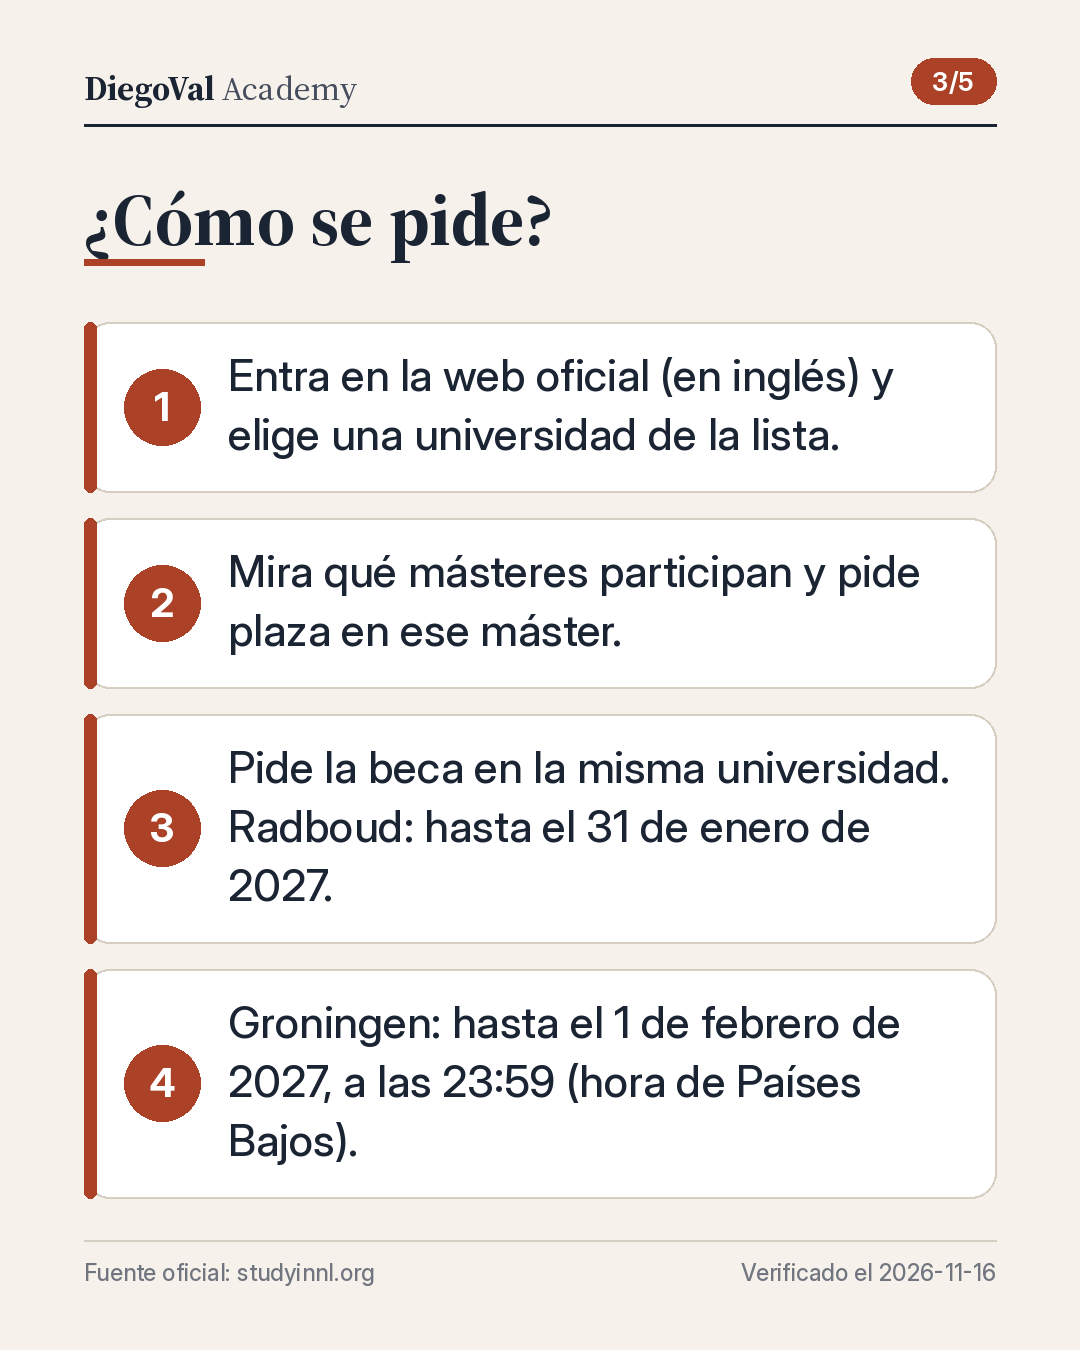
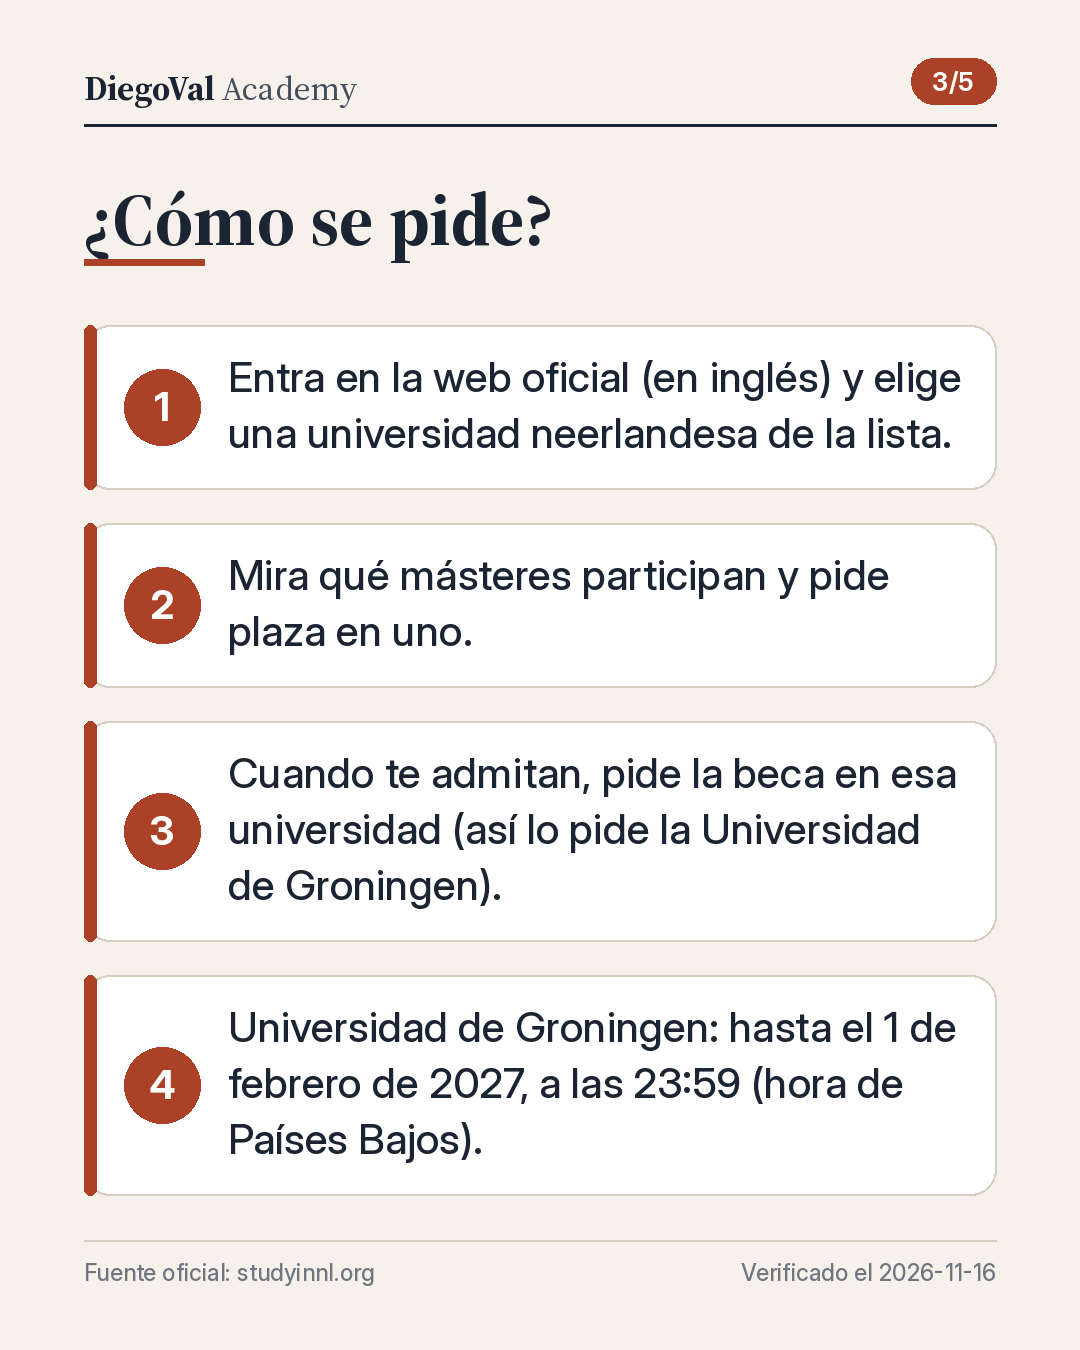
2026-11-16_lunes_beca-paises-bajos-nl: textos más sencillos tras 1.ª verificación
Claude-Session: https://claude.ai/code/session_01HRCw39VRhfYDAVqBzkn5QZ

diff --git a/posts/2026-11-16_lunes_beca-paises-bajos-nl/caption.md b/posts/2026-11-16_lunes_beca-paises-bajos-nl/caption.md
@@ -1,21 +1,21 @@
-¿Quieres un máster en Países Bajos y buscas ayuda con el coste? 🇳🇱 Hay una beca llamada NL Scholarship, abierta para el curso 2027-2028.
+¿Quieres un máster en Países Bajos con ayuda? 🇳🇱 Hay una beca llamada NL (Países Bajos) Scholarship, abierta para el curso 2027-2028.
 
 En corto:
-• Qué da: 5 000 euros, una sola vez, en el primer año. No paga toda la matrícula ni la vida diaria.
-• Quién: quien no tiene pasaporte de la Unión Europea (ni de Noruega, Islandia o Liechtenstein), hace un máster de tiempo completo y nunca ha estudiado en Países Bajos.
-• Plazos: cada universidad pone el suyo. Radboud: 31 de enero de 2027. Groningen: 1 de febrero de 2027, hasta las 23:59 (hora de Países Bajos).
+• Qué da: 5 000 euros, una sola vez. No paga toda la matrícula (lo que pagas por estudiar) ni la vida diaria.
+• Quién: quien no tiene pasaporte de la Unión Europea, Noruega, Islandia ni Liechtenstein, estudia a tiempo completo y no tiene título neerlandés ni estudios previos allí.
+• Plazo: cada universidad pone el suyo. Ejemplo: la Universidad de Groningen, hasta el 1 de febrero de 2027, a las 23:59 (hora de Países Bajos).
 
-Por qué es conocida: está en la web oficial para estudiar en Países Bajos, con 33 instituciones participantes en 2027-2028.
+Por qué es conocida: está en la web oficial de estudios en Países Bajos (33 instituciones).
 
-Lo que pocos explican: no hay una solicitud única. La pides en la universidad que elijas, y no todos los másteres participan: mira la página de cada uno.
+Lo que pocos explican: no hay una solicitud única. La pides en la universidad elegida, y algunos másteres no participan.
 
 Cómo empezar:
-1. Abre la web oficial y elige tu universidad en la lista.
-2. Busca un máster que participe y apunta su plazo.
-3. Prepara tu carta de motivación y tus notas de la carrera.
+1. Abre la web oficial y elige una universidad de la lista.
+2. Pide plaza en un máster que participe. En Groningen, la beca se pide cuando ya te han admitido.
+3. Apunta el plazo y prepara tu carta de motivación.
 
 Oficial: https://www.studyinnl.org/finances/nl-scholarship
-Groningen: https://www.rug.nl/education/master/international-students/financial-matters/holland-scholarship/
+Universidad de Groningen: https://www.rug.nl/education/master/international-students/financial-matters/holland-scholarship/
 
 Verificado el: 2026-11-16
 

diff --git a/posts/2026-11-16_lunes_beca-paises-bajos-nl/validation.md b/posts/2026-11-16_lunes_beca-paises-bajos-nl/validation.md
@@ -1,0 +1,30 @@
+# Validación — 2026-11-16_lunes_beca-paises-bajos-nl
+
+Ejecutado: 2026-11-16T07:10:57+01:00
+Decisión: **BLOQUEADA: no publicar**
+
+| Estado | Comprobación | Detalle |
+|---|---|---|
+| PASS | Archivos obligatorios | imagen: post.json, post.png, caption.md, sources.md, metadata.json |
+| PASS | Metadatos | campos obligatorios presentes |
+| PASS | Imagen | 1080x1350 PNG, 1 archivo (+5 diapositivas de carrusel, ignoradas) |
+| PASS | Canal Buffer | DiegoVal Academy (6ae0bdf22f1f5ed648eb92f9) |
+| PASS | Verificación del día | 2026-11-16 |
+| PASS | Longitud del texto | 1285/1300 caracteres |
+| PASS | Fecha visible en el texto | Verificado el: 2026-11-16 |
+| PASS | Marcadores pendientes | ninguno |
+| PASS | Enlaces documentados en sources.md | 2 enlaces |
+| PASS | Enlace principal en el texto | https://www.studyinnl.org/finances/nl-scholarship |
+| PASS | Lo que pocos explican | presente en imagen y texto |
+| PASS | Sin URLs en la imagen | sólo dominio de la fuente |
+| PASS | Lenguaje sencillo: siglas (texto) | todas explicadas o ninguna |
+| PASS | Lenguaje sencillo: palabras difíciles (texto) | sin burocracia ni calcos detectados |
+| PASS | Lenguaje sencillo: siglas (imagen) | todas explicadas o ninguna |
+| PASS | Lenguaje sencillo: palabras difíciles (imagen) | sin burocracia ni calcos detectados |
+| PASS | Lenguaje sencillo: frases largas | todas ≤ 32 palabras |
+| FAIL | Lenguaje sencillo: revisión del verificador | falta metadata.plain_language_check con la pregunta exacta, answer 'sí', reviewer y checked_text_sha256 (python3 scripts/validate_post.py <carpeta> --plain-hash) |
+| PASS | Evidencia de popularidad | 1 señales documentadas |
+| PASS | Plazo | 2027-02-01T23:59:00+01:00 (quedan 77 días) |
+| PASS | Duplicados | sin repeticiones en 26 filas de todas las plataformas (URL canónica, topic_key y vídeo; mismo día en otra red permitido) |
+| PASS | Enlace accesible | 200 https://www.rug.nl/education/master/international-students/financial-matters/holland-scholarship/ |
+| PASS | Enlace accesible | 200 https://www.studyinnl.org/finances/nl-scholarship |

diff --git a/posts/2026-11-16_lunes_beca-paises-bajos-nl/validation_instagram.md b/posts/2026-11-16_lunes_beca-paises-bajos-nl/validation_instagram.md
@@ -1,0 +1,24 @@
+# Validación Instagram — 2026-11-16_lunes_beca-paises-bajos-nl
+
+Ejecutado: 2026-11-16T07:10:58+01:00
+Decisión: **BLOQUEADA: no publicar**
+
+| Estado | Comprobación | Detalle |
+|---|---|---|
+| PASS | Archivos obligatorios | 5 imágenes + caption + carousel.json |
+| FAIL | Base verificada (LinkedIn) | falta validation.md APROBADA: el carrusel reutiliza esa investigación |
+| PASS | Imágenes 1080×1350 PNG | 5 imágenes correctas |
+| PASS | Imágenes actualizadas | generadas desde el carousel.json actual |
+| PASS | Imágenes sin URL completa | sólo dominios |
+| PASS | Fecha de verificación | 2026-11-16 |
+| PASS | Caption breve | 523 caracteres (máx. 1000) |
+| PASS | Hashtags | 4 (rango 3-8) |
+| PASS | Verificado el | 2026-11-16 |
+| PASS | Lenguaje sencillo: siglas (texto) | todas explicadas o ninguna |
+| PASS | Lenguaje sencillo: palabras difíciles (texto) | sin burocracia ni calcos detectados |
+| PASS | Lenguaje sencillo: siglas (imagen) | todas explicadas o ninguna |
+| PASS | Lenguaje sencillo: palabras difíciles (imagen) | sin burocracia ni calcos detectados |
+| PASS | Lenguaje sencillo: frases largas | todas ≤ 32 palabras |
+| FAIL | Lenguaje sencillo: revisión del verificador | falta metadata.instagram.plain_language_check (pregunta exacta, answer 'sí', reviewer, checked_text_sha256 = python3 scripts/validate_carousel.py <carpeta> --plain-hash) |
+| PASS | Duplicados (Instagram) | sin repeticiones en ninguna plataforma (mismo día en LinkedIn permitido) |
+| PASS | Verificación de hoy | 2026-11-16 |

diff --git a/posts/2026-11-16_lunes_beca-paises-bajos-nl/sources.md b/posts/2026-11-16_lunes_beca-paises-bajos-nl/sources.md
@@ -16,6 +16,8 @@ Lista con enlaces: https://www.studyinnl.org/scholarships/highlighted-scholarshi
 - Radboud https://www.ru.nl/en/education/scholarships/nl-scholarship — "31 January 2027 23:59 CET" (solicitud enviada) y "14 February 2027 23:59 CET" (completa). Aviso: la página mezcla datos de 2026-27; no se usa ningún otro dato de Radboud.
 - Utrecht https://www.uu.nl/en/masters/general-information/application-and-admission/scholarships-and-grants/nl-scholarship — "before 1 February 23:59 CET" (sin año junto a la fecha; ligado a inicio 1 sept 2027). Importe 5 000, 10 000 o 15 000 euros. NO usada en el texto por la falta de año explícito.
 
+Nota: el texto publicado usa solo Groningen (año explícito). Radboud (31 ene = solicitud inicial, 14 feb = completa; exige además el Radboud Scholarship Programme y excluye Erasmus Mundus y titulaciones conjuntas) y Utrecht quedan fuera por datos incoherentes o sin año.
+
 ## Popularidad (criterio 1)
 Beca listada en la web oficial de estudio en Países Bajos (studyinnl.org) con 33 instituciones participantes en 2027-2028 (misma URL principal). No se citan cifras de búsquedas.
 

diff --git a/posts/2026-11-16_lunes_beca-paises-bajos-nl/caption_instagram.md b/posts/2026-11-16_lunes_beca-paises-bajos-nl/caption_instagram.md
@@ -1,10 +1,10 @@
 ¿Quieres un máster en Países Bajos con ayuda? 🇳🇱
 
-Hay una beca llamada NL Scholarship, abierta para el curso 2027-2028.
+Hay una beca llamada NL (Países Bajos) Scholarship, abierta para el curso 2027-2028.
 
-✅ Da 5 000 euros, una sola vez (no paga toda la matrícula)
+✅ Da 5 000 euros, una sola vez (no paga toda la matrícula, lo que pagas por estudiar)
 ✅ Para quien no tiene pasaporte de la Unión Europea
-✅ Plazos desde el 31 de enero de 2027, según la universidad
+✅ Ejemplo de plazo: 1 de febrero de 2027, Universidad de Groningen
 
 Esta semana: elige tu universidad en la web oficial y apunta su plazo. Web oficial, en inglés: studyinnl.org
 
